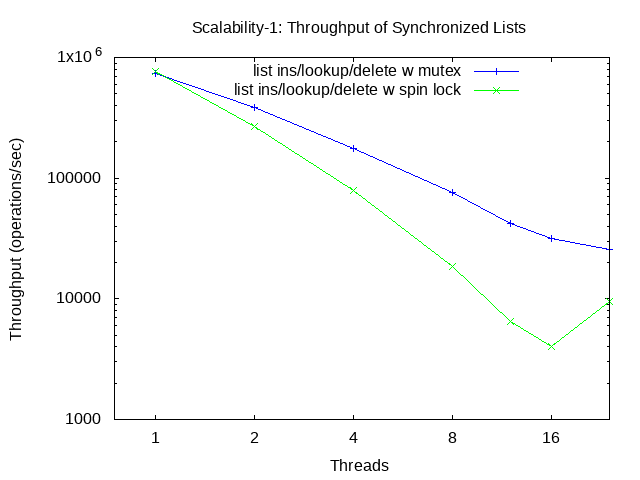
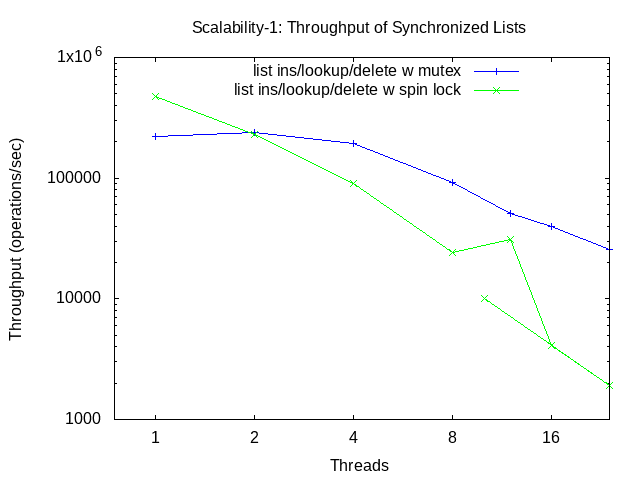
finished timing mutex waits

diff --git a/lab2_list.c b/lab2_list.c
@@ -33,14 +33,30 @@ int test_and_set_lock = 0;
 SortedList_t list;
 SortedListElement_t* elements; 
 
-void lock() {
+double lock() {
+    struct timespec start, stop;
+    if( clock_gettime( CLOCK_MONOTONIC, &start) == -1 ) {
+        fprintf(stderr, "Clock Get Time Fails %s\n", strerror(errno));
+        exit(1);
+    }
+
+
     if(got_pthread_mutex) {
         pthread_mutex_lock(&mutex_lock);
     } else if(got_spin_lock) {
         while(__sync_lock_test_and_set(&test_and_set_lock, 1) == 1) 
             ;
     
-    } 
+    }
+
+    if( clock_gettime( CLOCK_MONOTONIC, &stop) == -1 ) {
+        fprintf(stderr, "Clock Get Time Fails %s\n", strerror(errno));
+        exit(1);
+    }
+
+    double accum = (stop.tv_sec - start.tv_sec) * 1000000000 + (stop.tv_nsec - start.tv_nsec);
+    return accum;
+
 }
 
 void unlock() {
@@ -59,16 +75,22 @@ void handle_sigint(int sig)
 }
 
 void* thread_action(void* i) {
+    double *amount_time= malloc(sizeof(double));
+    *amount_time = 0;
+    double time = 0;
+
     long tid = (long)i;
     long start = tid*num_iterations;
 
     for(int i = start; i < start+num_iterations; i++){
-        lock();
+        time = lock();
+        *amount_time += time; 
         SortedList_insert(&list, &elements[i]);
         unlock();
     }
 
-    lock();
+    time = lock();
+    *amount_time += time;
     int length = SortedList_length(&list);
     unlock();
     if(length == -1) {
@@ -79,7 +101,8 @@ void* thread_action(void* i) {
     for(int i =start; i < start+num_iterations; i++) {
         const char* string_to_lookup = elements[i].key;
         int return_delete = 0;
-        lock();
+        time = lock();
+        *amount_time += time; 
         SortedListElement_t* element = SortedList_lookup(&list, string_to_lookup);
         if(element == NULL) {
             printf("Thread %ld: The element for key %s is null due to corruption\n", tid, string_to_lookup);
@@ -95,9 +118,8 @@ void* thread_action(void* i) {
             exit(2);
         }
     }
-
-    pthread_exit(NULL);
-    return NULL;
+    // pthread_exit(NULL);
+    return (void*) amount_time;
 }
 
 
@@ -237,9 +259,18 @@ int main(int argc, char *argv[]) {
         }
     }
 
+    double total_time_waiting = 0;
+    double* time;
     for (int i = 0; i < num_threads; i++) {
-        pthread_join(threads[i], NULL);
+
+        pthread_join(threads[i], (void**) &time);
+        total_time_waiting += *time; 
     }
+
+
+    int number_lock_operations = (2*num_iterations+1) * num_threads;
+    // total_time_waiting /= num_threads * (2 * num_iterations + 1);
+
 
     if( clock_gettime( CLOCK_MONOTONIC, &stop) == -1 ) {
         fprintf(stderr, "Clock Get Time Fails %s\n", strerror(errno));
@@ -277,8 +308,15 @@ int main(int argc, char *argv[]) {
         fprintf(stderr, "The length at the end is not 0 \n");
         exit(2);
     }
-    snprintf(list_csv_buff, 200, "%s,%d,%d,%d,%d,%ld,%ld \n", type_of_str, num_threads, num_iterations, num_lists,num_operations,
-        (long)(accum), (long)(accum/num_operations));
+ 
+    if(!got_pthread_mutex) {
+        total_time_waiting = 0;
+    }
+    
+    snprintf(list_csv_buff, 200, "%s,%d,%d,%d,%d,%ld,%ld,%ld\n", type_of_str, num_threads, num_iterations, num_lists,num_operations, 
+    (long)(accum), (long)(accum/num_operations), (long)(total_time_waiting/number_lock_operations));   
+    
+    
     write(list_csv_fd, list_csv_buff, strlen(list_csv_buff));
     write(1, list_csv_buff, strlen(list_csv_buff));
 
